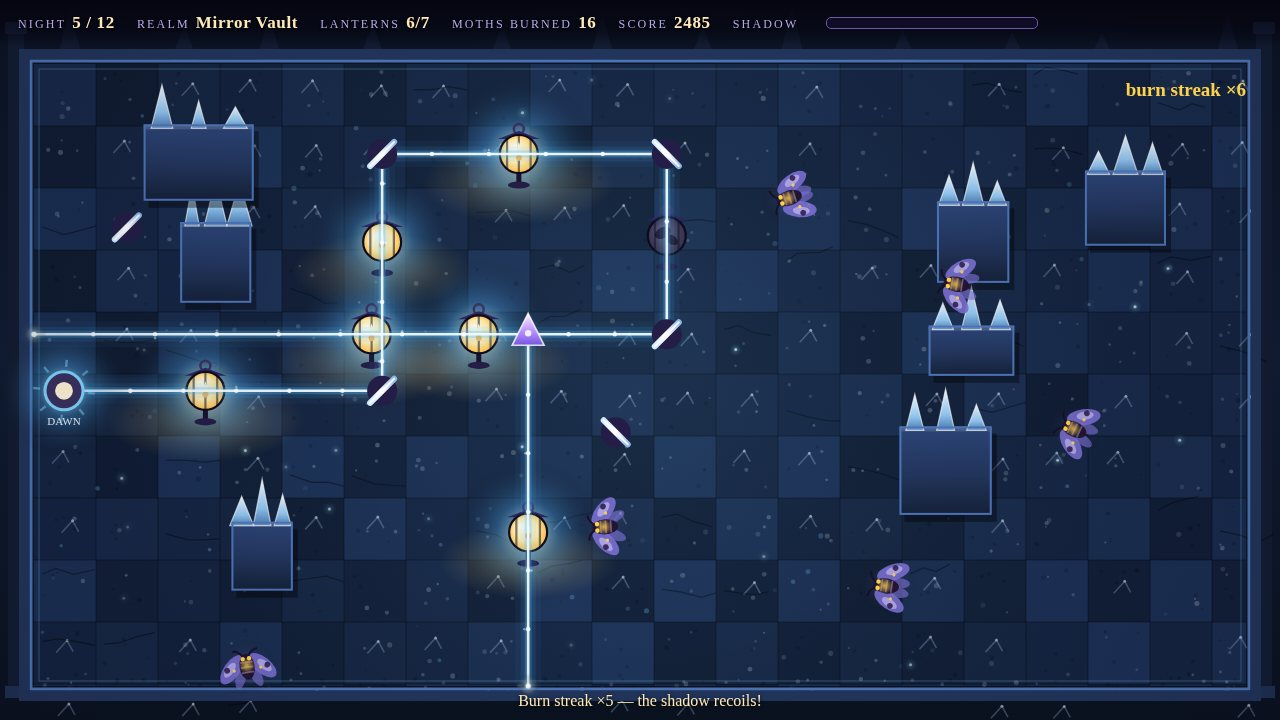
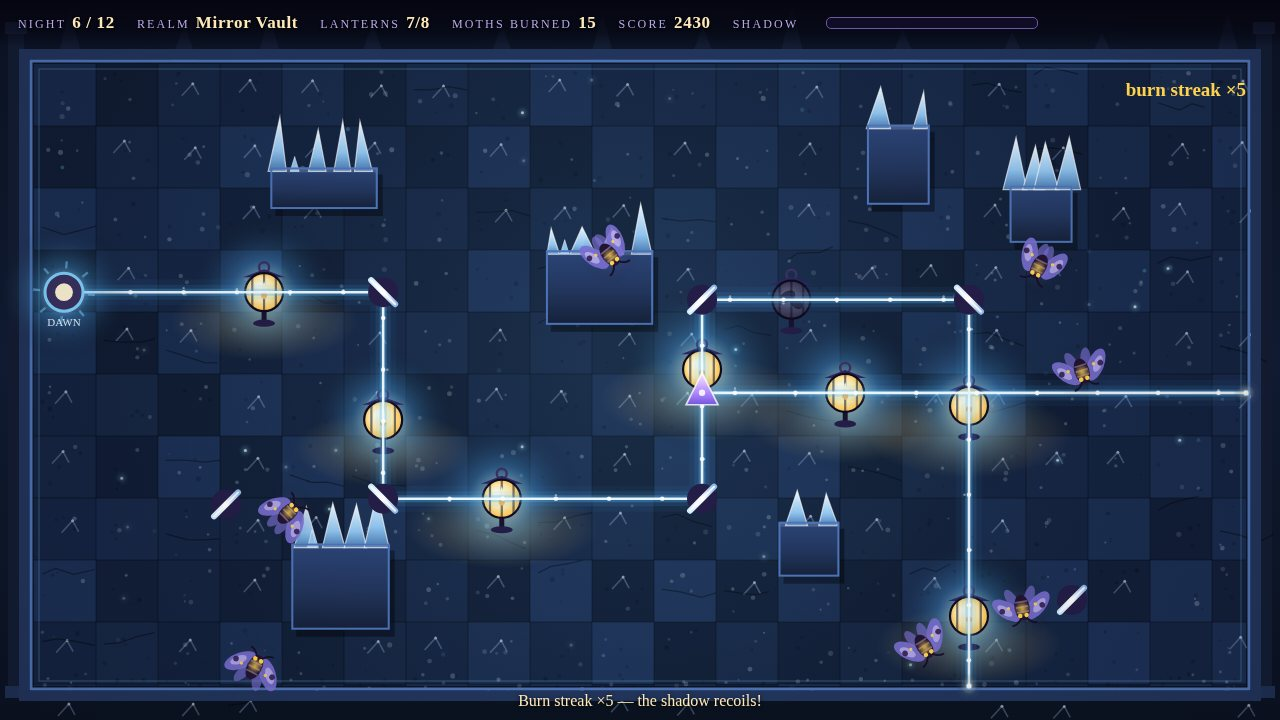
PRISMKEEP play-frame repair: restage play shot on night 6 seed 485 — solved web spans full width (prism split at 702,393, right spine to grand lantern), moths spread frame-wide, per-wall crystal dressing variation

diff --git a/game/src/shots.js b/game/src/shots.js
@@ -1,6 +1,6 @@
 // Deterministic screenshot scenes for PRISMKEEP, driven by the URL:
 //   ?shot=title&seed=7    the title over a solved Mirror-Vault web
-//   ?shot=play&seed=7     night 5 mid-play, moths in flight, HUD live
+//   ?shot=play&seed=485   night 6 mid-play, moths in flight, HUD live
 //   ?shot=feature&seed=7  night 12: the densest web, prisms split, boss out
 //   ?shot=end&seed=7      the dawn-breaks victory screen with full stats
 // Each scene is built from the game's own code with a fixed seed and a fixed
@@ -35,18 +35,23 @@ export function setupShotScene(state, api) {
     state.best = 5760; state.shadow = 18;
     state.moths = fixedMoths(state.room, [[980, 210], [1080, 420], [860, 540]]);
   } else if (shot === 'play') {
-    api.startNight(5, seed, { keepScore: false });
-    // Fully solved: the whole web burns at once, every leg lit. The night
-    // still is not cleared because one lantern is smothered — a moth sits
-    // on its glass (smother far outlasts the frozen capture), so the frame
-    // is mid-fight: complete web, live combo, moths in the air.
+    api.startNight(6, seed, { keepScore: false });
+    // Fully solved: the whole web burns at once, every leg lit — and this
+    // night's web is woven wall to wall. It dives down the left, crosses to
+    // a prism that splits it north and clean east to the rim, and the north
+    // branch bends east and drops a lit spine down the right side to the
+    // grand lantern, so no quarter of the floor stays dark for long. The
+    // night still is not cleared because one lantern is smothered — a moth
+    // sits on its glass (smother far outlasts the frozen capture), so the
+    // frame is mid-fight: complete web, live combo, moths in the air on
+    // both sides of the keep.
     solveRoom(state.room);
     state.mode = 'play';
     state.score = 2380; state.burned = 14; state.shadow = 34;
     state.streak = 4; state.streakTimer = 30; state.bestStreak = 6;
     const mid = state.room.lanterns[Math.floor(state.room.lanterns.length / 2)];
     if (mid) mid.smother = 30;
-    const spots = [[880, 170], [1050, 300], [700, 520], [1160, 470], [520, 180], [980, 600]];
+    const spots = [[1085, 175], [1155, 320], [1105, 565], [865, 585], [545, 175], [215, 585]];
     if (mid) spots.push([mid.x + 26, mid.y - 18]);
     state.moths = fixedMoths(state.room, spots);
   } else if (shot === 'feature') {

diff --git a/game/src/render.js b/game/src/render.js
@@ -274,16 +274,30 @@ function drawWalls(ctx, room) {
       ctx.beginPath(); ctx.moveTo(w.x - 3, w.y - 1); ctx.lineTo(w.x + w.w + 3, w.y - 1); ctx.stroke();
       ctx.globalAlpha = 1;
     } else if (room.realm === 1) {
-      // Mirror Vault: a crystal cluster sprouts from the block.
-      for (let k = 0; k < 3; k++) {
-        const bx = w.x + (k + 0.5) * (w.w / 3);
-        const hh = 16 + hash2(seed, k * 7) * Math.min(30, w.h);
-        const hw = 7 + hash2(seed + k, 3) * 6;
+      // Mirror Vault: a crystal cluster sprouts from the block. No two
+      // blocks grow alike — shard count, spacing, lean and heights all
+      // come from the wall's own hash, so neighbouring blocks never read
+      // as copies of one another.
+      const shards = 2 + Math.floor(hash2(seed, 21) * 3); // 2..4
+      for (let k = 0; k < shards; k++) {
+        const slot = (k + 0.5) / shards;
+        const bx = w.x + slot * w.w + (hash2(seed, k * 13 + 5) - 0.5) * (w.w / shards) * 0.5;
+        const hh = 13 + hash2(seed, k * 7) * Math.min(38, w.h + 8);
+        const hw = 6 + hash2(seed + k, 3) * 7;
+        const lean = (hash2(seed, k * 17 + 9) - 0.5) * 7;
         const cg = ctx.createLinearGradient(bx, w.y - hh, bx, w.y + 6);
         cg.addColorStop(0, '#eaf6ff'); cg.addColorStop(0.6, '#8fc3ee'); cg.addColorStop(1, '#3d6ea8');
         ctx.fillStyle = cg;
-        ctx.beginPath(); ctx.moveTo(bx - hw, w.y + 4); ctx.lineTo(bx, w.y - hh); ctx.lineTo(bx + hw, w.y + 4); ctx.closePath(); ctx.fill();
+        ctx.beginPath(); ctx.moveTo(bx - hw, w.y + 4); ctx.lineTo(bx + lean, w.y - hh); ctx.lineTo(bx + hw, w.y + 4); ctx.closePath(); ctx.fill();
         ctx.strokeStyle = 'rgba(255,255,255,0.65)'; ctx.lineWidth = 1.2; ctx.stroke();
+      }
+      // A small satellite shard beside the cluster on wider blocks.
+      if (w.w > 84) {
+        const bx = w.x + w.w * (0.14 + hash2(seed, 31) * 0.1);
+        const hh = 8 + hash2(seed, 33) * 8;
+        ctx.fillStyle = '#8fc3ee';
+        ctx.beginPath(); ctx.moveTo(bx - 4.5, w.y + 4); ctx.lineTo(bx, w.y - hh); ctx.lineTo(bx + 4.5, w.y + 4); ctx.closePath(); ctx.fill();
+        ctx.strokeStyle = 'rgba(255,255,255,0.5)'; ctx.lineWidth = 1; ctx.stroke();
       }
       ctx.fillStyle = 'rgba(255,255,255,0.14)';
       ctx.fillRect(w.x, w.y, w.w, 5);
